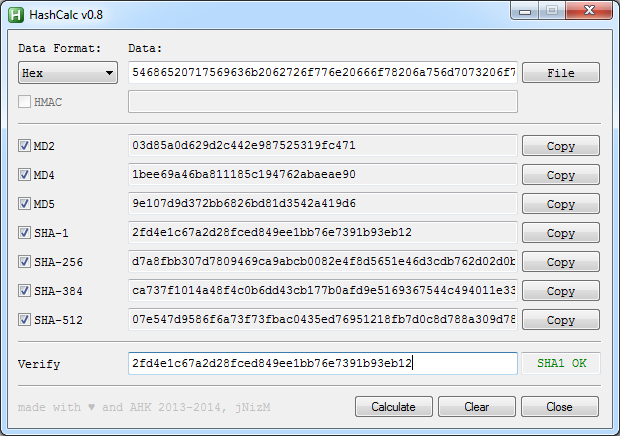
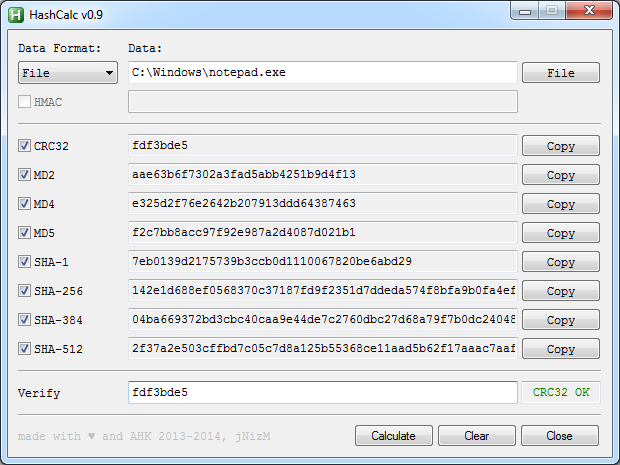
Update to v0.9
Update README
Update Screenshot
Update src\HashCalc

Changed region(s): [[0.0, 0.2385, 1.0, 1.0], [0.0, 0.0, 1.0, 0.2683], [0.0306, 0.9243, 0.429, 0.9541]]

diff --git a/README.md b/README.md
@@ -8,6 +8,7 @@ Calculate hash from string, hex or file via AutoHotkey
 * Verify hash
 
 ### Hash Functions
+* CRC32
 * MD2, MD4, MD5
 * SHA-1
 * SHA-256, SHA-384, SHA-512
@@ -18,11 +19,12 @@ Calculate hash from string, hex or file via AutoHotkey
 
 
 ## Info
-* Version: v0.8
+* Version: v0.9
 * URL: [AHK Thread](http://ahkscript.org/boards/viewtopic.php?f=6&t=87)
 
 
 ## Changelog
+* 0.9 | Added hash function CRC32
 * 0.8 | Bug fixes and improvements
 * 0.7 | Added CalcHexHash()
 * 0.6 | Change Salt to HMAC funtion
@@ -36,5 +38,6 @@ Calculate hash from string, hex or file via AutoHotkey
 ## Contributing
 * thanks to Bentschi for his functions CalcAddrHash(), CalcStringHash() & CalcFileHash()
 * thanks to atnbueno for CalcHexHash()
+* thanks to SKAN for his functions CRC() & FileCRC32()
 * thanks to just me for his translated function HMAC()
 * thanks to AutoHotkey Community
